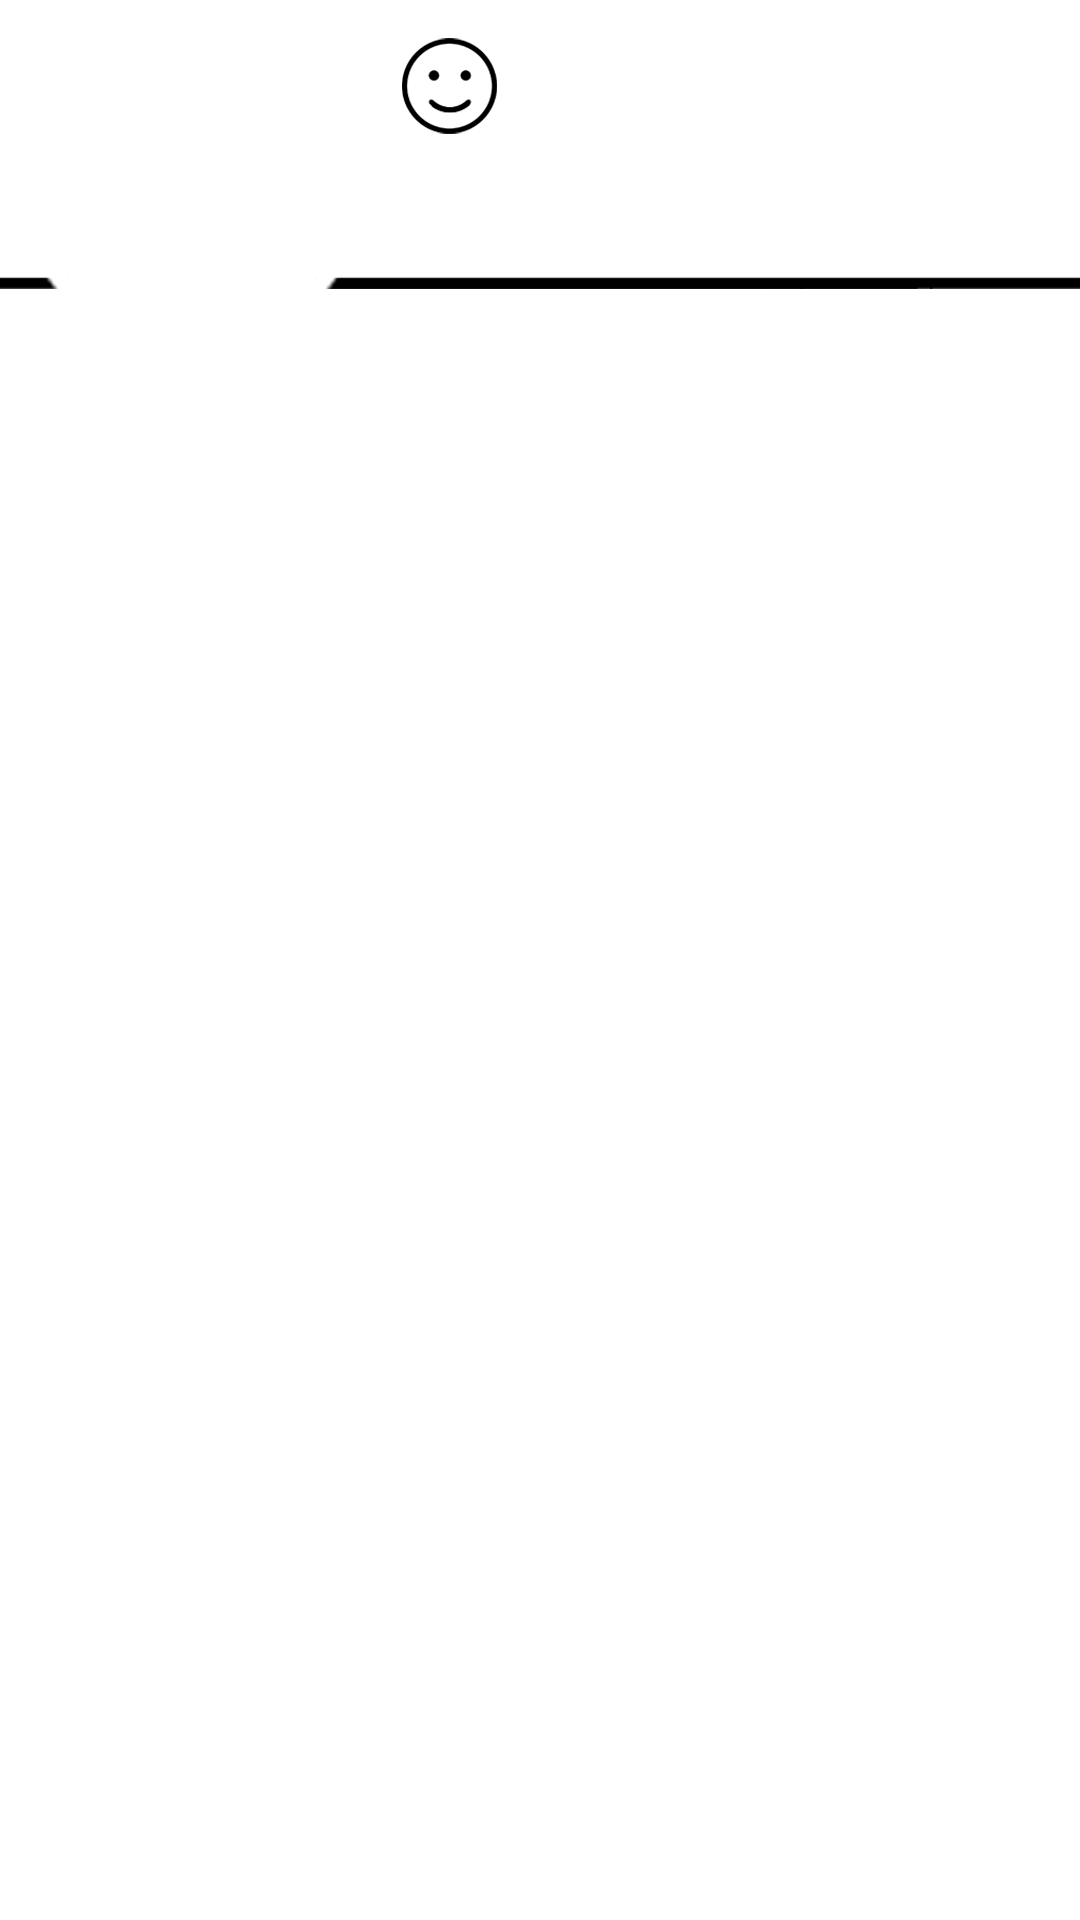
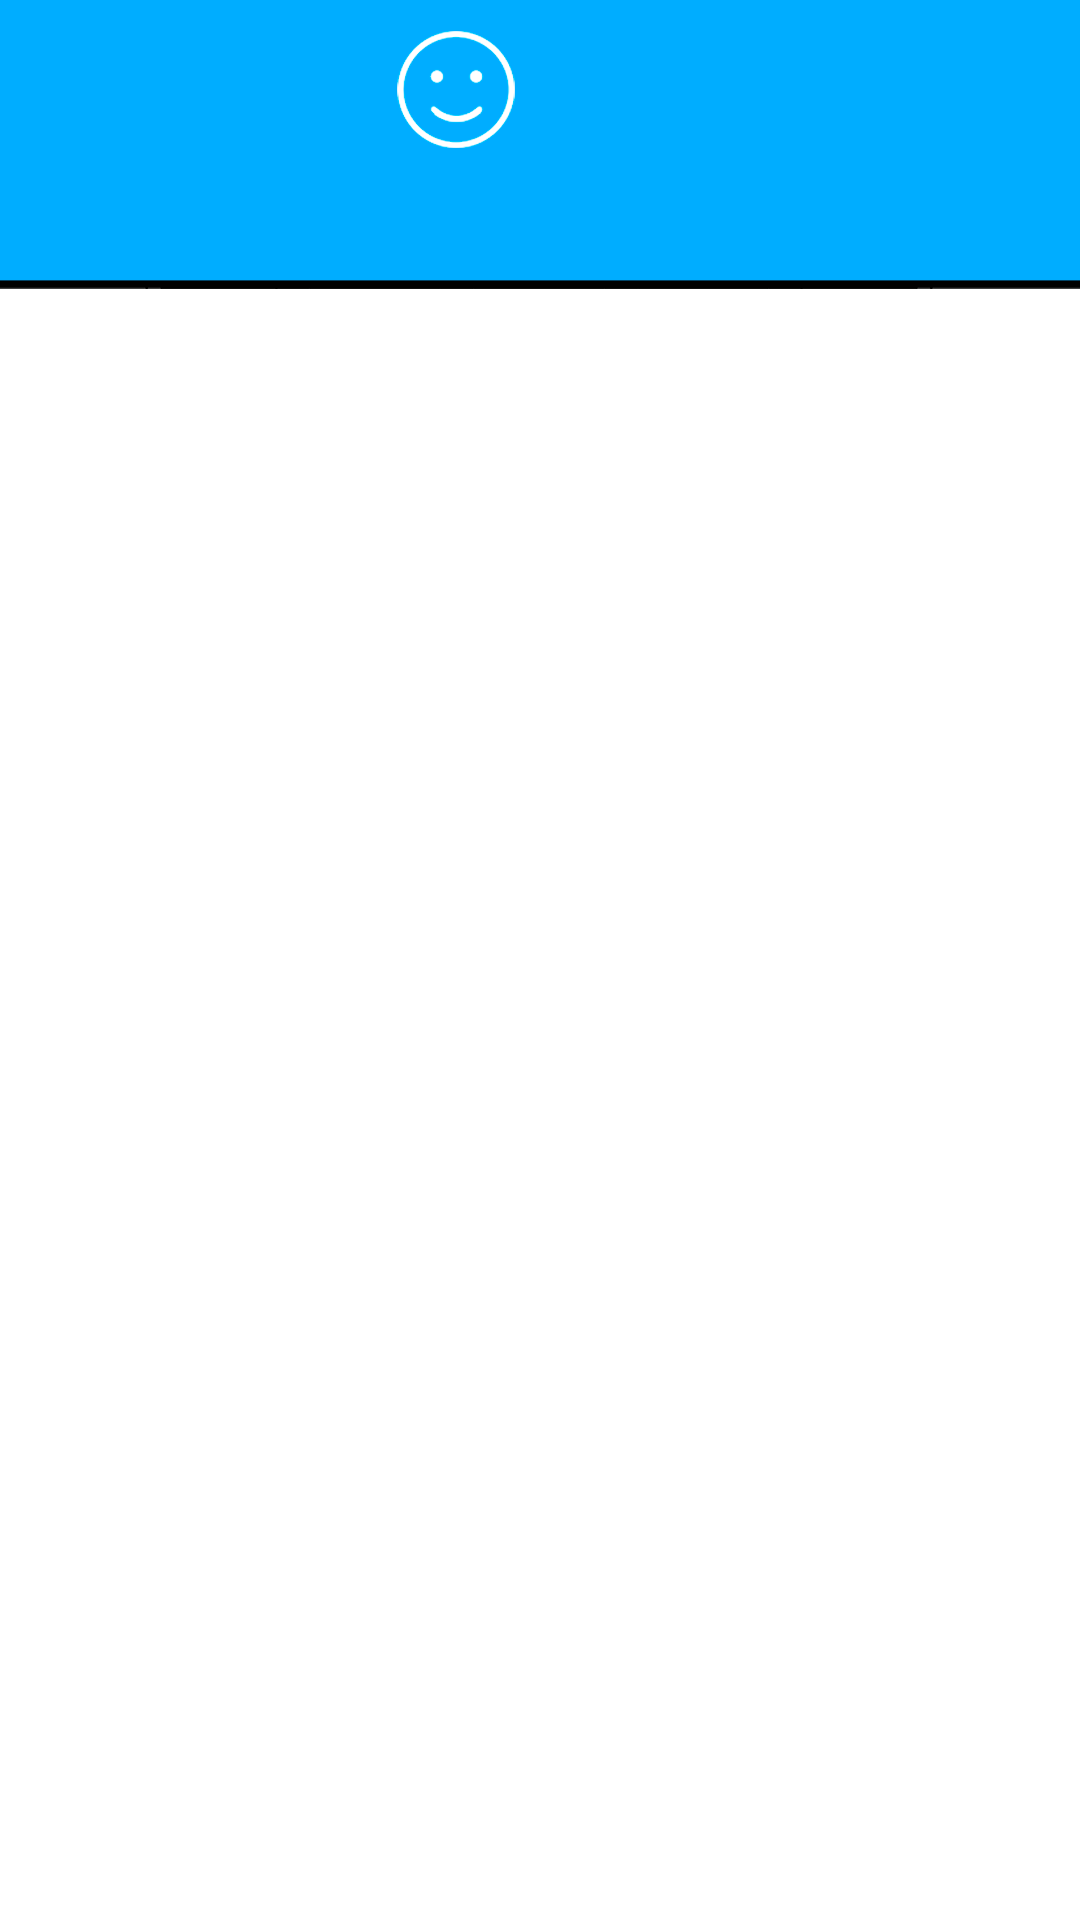
Changed the look of upperhud and meter

Changed region(s): [[0.0, 0.0, 1.0, 0.1562]]

diff --git a/core/src/fi/tuni/tamk/tiko/depressionaut/ScoreMeter.java b/core/src/fi/tuni/tamk/tiko/depressionaut/ScoreMeter.java
@@ -23,6 +23,7 @@ public class ScoreMeter {
     public ScoreCounter score;
     public Texture meterBase = new Texture("UI/UpperHUDbase.png");
     public Texture meterTexture;
+    public Texture meterBackground;
 
     private ArrayList<Rectangle> rectangles = new ArrayList<Rectangle>();
     private Rectangle meterFiller;
@@ -35,70 +36,16 @@ public class ScoreMeter {
         return meterTexture;
     }
 
-    /**
-     * Determines the amount of bars the meter should have relative the players score
-     *
-     * will get changed when the happiness level is invented
-     */
-    /*
-    public void determineMeterHeight() {
-        int amountOfScoreForNextLevel = 0;
-
-        switch(score.getHappinessLevel()) {
-            case 0:
-                amountOfScoreForNextLevel = score.getScoreForNextLevel(0);
-                break;
-            case 1:
-                amountOfScoreForNextLevel = score.getScoreForNextLevel(1);
-                break;
-            case 2:
-                amountOfScoreForNextLevel = score.getScoreForNextLevel(2);
-                break;
-            case 3:
-                amountOfScoreForNextLevel = score.getScoreForNextLevel(3);
-                break;
-            case 4:
-                amountOfScoreForNextLevel = score.getScoreForNextLevel(4);
-                break;
-        }
-
-
-        if(score.getScore() < amountOfScoreForNextLevel / 8) {
-            setMeterTexture(0);
-        }
-        else if(score.getScore() < (amountOfScoreForNextLevel / 8) * 2) {
-            setMeterTexture(1);
-        }
-        else if(score.getScore() < (amountOfScoreForNextLevel / 8) * 3) {
-            setMeterTexture(2);
-        }
-        else if(score.getScore() < (amountOfScoreForNextLevel / 8) * 4) {
-            setMeterTexture(3);
-        }
-        else if(score.getScore() < (amountOfScoreForNextLevel / 8) * 5) {
-            setMeterTexture(4);
-        }
-        else if(score.getScore() < (amountOfScoreForNextLevel / 8) * 6) {
-            setMeterTexture(5);
-        }
-        else if(score.getScore() < (amountOfScoreForNextLevel / 8) * 7) {
-            setMeterTexture(6);
-        }
-        else if(score.getScore() < amountOfScoreForNextLevel) {
-            setMeterTexture(7);
-        }
-    }
-
-     */
 
     public ScoreMeter(MyGdxGame game) {
         this.game = game;
         this.camera = game.camera;
         this.score = game.score;
-        font = new BitmapFont(Gdx.files.internal("font/Quicksand.fnt"));
+        font = new BitmapFont(Gdx.files.internal("font/Quicksand_white.fnt"));
         font.setUseIntegerPositions(false);
 
         meterFiller = new Rectangle();
+        meterBackground = new Texture("UI/meterBackground.png");
         meter = new Texture("UI/meter.png");
         meterColor = new Texture("UI/meterColor.png");
         createFillerRectangles();
@@ -108,6 +55,7 @@ public class ScoreMeter {
         //determineMeterHeight();
 
         batch.draw(meterBase, 0, 0);
+        batch.draw(meterBackground, 22, 1920 - 358, meter.getWidth(), meter.getHeight());
         for (int i = 0; i <= meter.getHeight() * getProgressToNextTier(); i++) {
             batch.draw(meterColor,
                     rectangles.get(i).getX(),
@@ -116,8 +64,8 @@ public class ScoreMeter {
                     rectangles.get(i).getHeight());
         }
         batch.draw(meter, 22, 1920 - 358, meter.getWidth(), meter.getHeight());
-        font.getData().setScale(3f, 3f);
-        font.draw(batch, score.getRationalizedScore(), 520, 1870);
+        font.getData().setScale(3.5f, 3.5f);
+        font.draw(batch, score.getRationalizedScore(), 540, 1875);
         font.getData().setScale(2f, 2f);
         font.draw(batch, "e/s " + score.getPassiveIncome(), 410, 1740);
 

diff --git a/core/src/fi/tuni/tamk/tiko/depressionaut/ScoreCounter.java b/core/src/fi/tuni/tamk/tiko/depressionaut/ScoreCounter.java
@@ -268,7 +268,7 @@ public class ScoreCounter {
     public String getRationalizedScore() {
         if(getWallet() >= 1000000) {
             return ((int)getScore() / 1000000) + "M";
-        } else if(getWallet() >= 1000) {
+        } else if(getWallet() >= 10000) {
             return ((int)getScore() / 1000) + "K";
         } else {
             return "" + (int)getScore();

diff --git a/core/src/fi/tuni/tamk/tiko/depressionaut/MyGdxGame.java b/core/src/fi/tuni/tamk/tiko/depressionaut/MyGdxGame.java
@@ -12,7 +12,7 @@ import fi.tuni.tamk.tiko.depressionaut.Screens.SplashScreen;
 
 public class MyGdxGame extends Game {
 	// DEBUG ->
-	public static final boolean DEBUG = true;
+	public static final boolean DEBUG = false;
 	// <- DEBUG
 
 	public SpriteBatch gameBatch;
